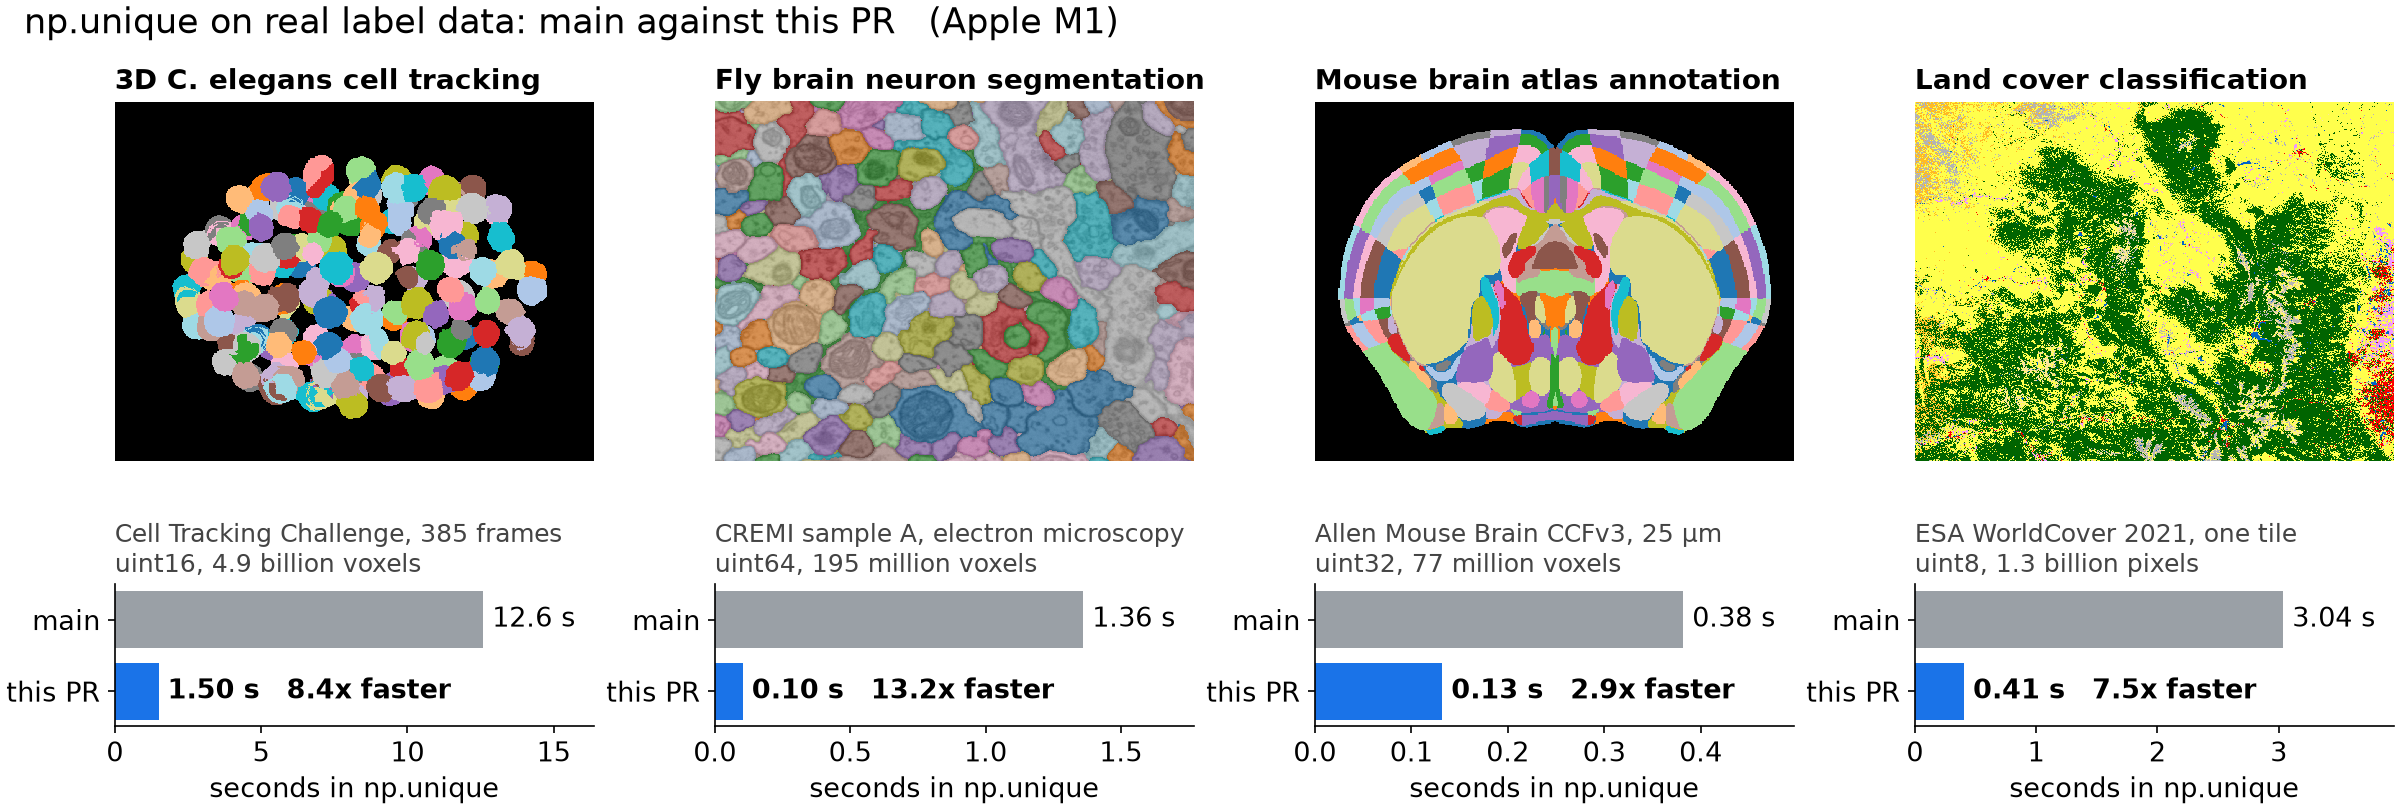
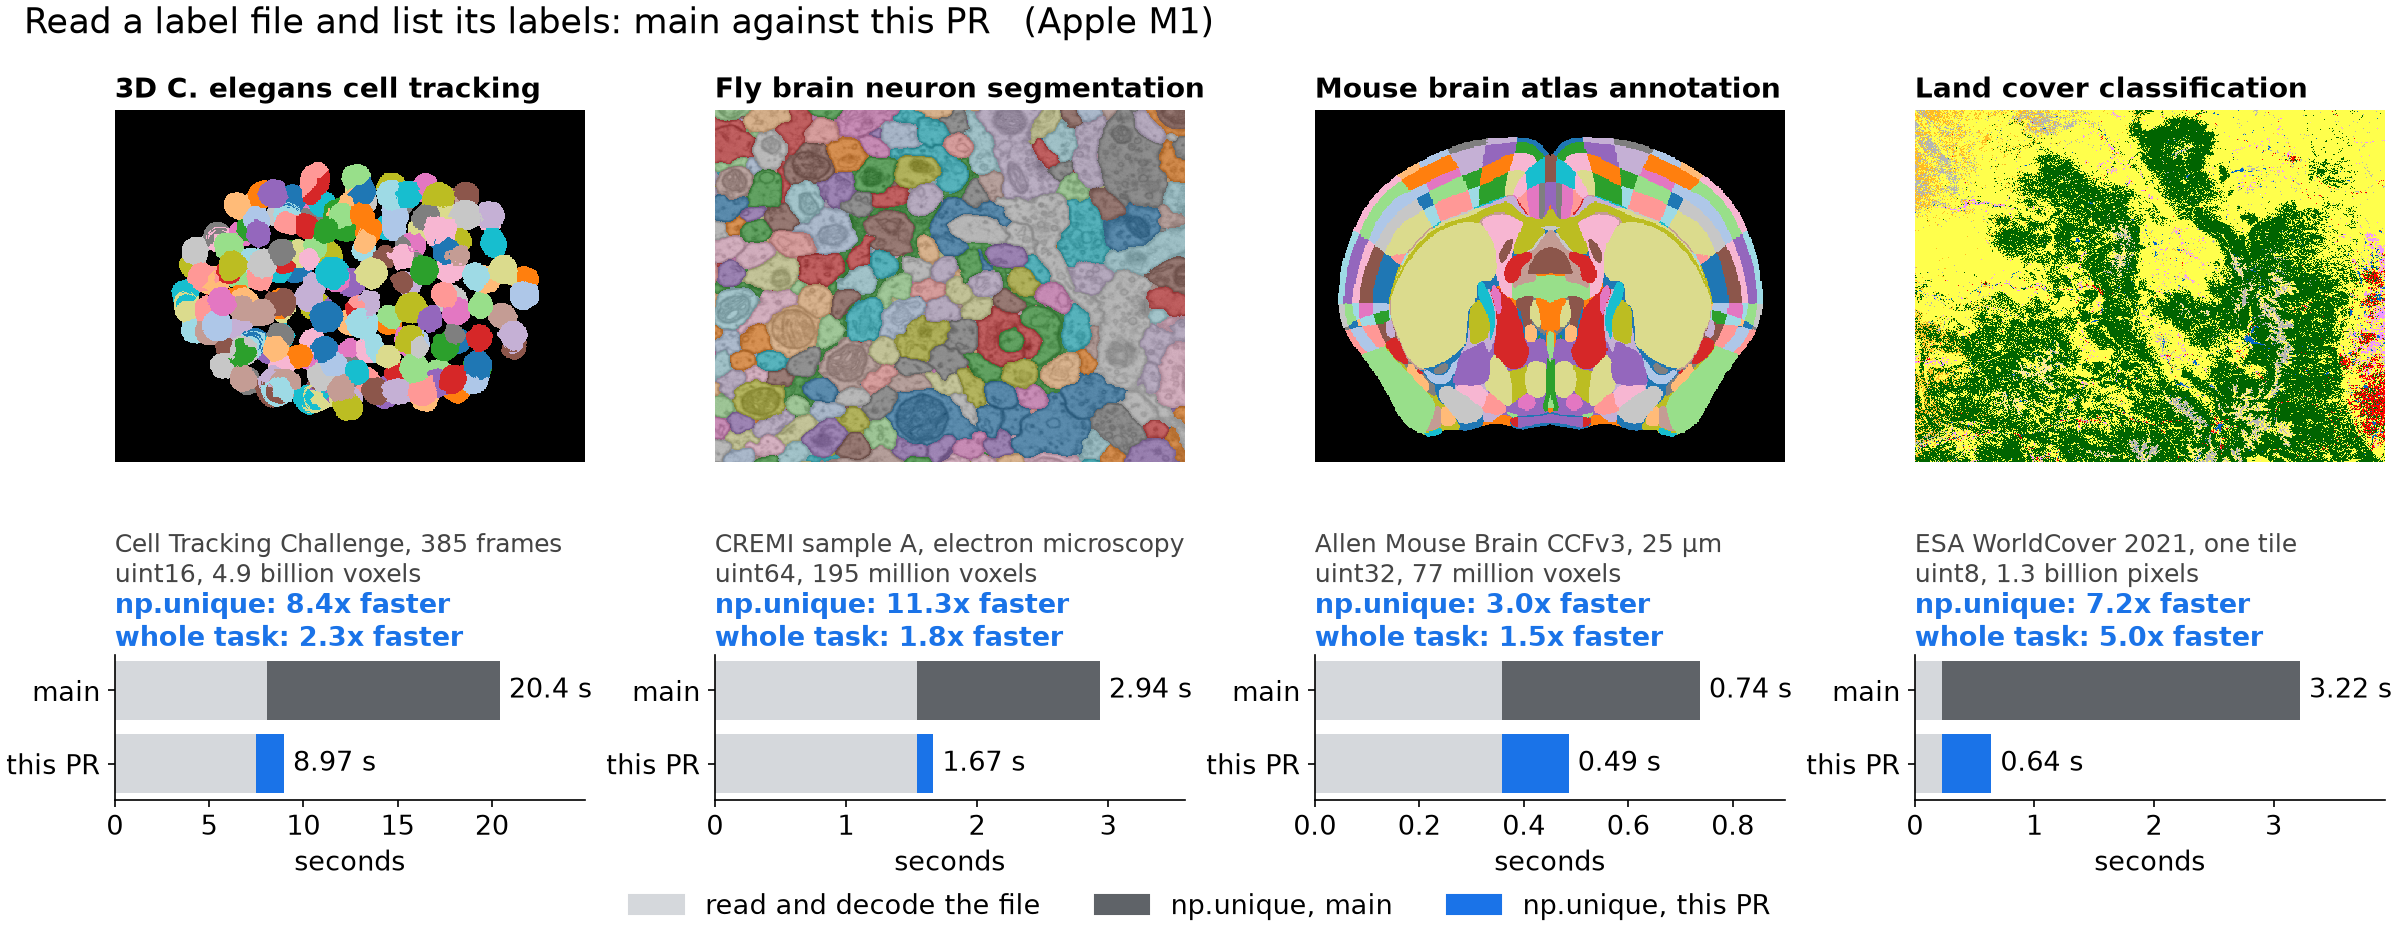
Time the whole task in the summary plot

diff --git a/summary_plot.py b/summary_plot.py
@@ -1,4 +1,4 @@
-"""Time np.unique on four real label datasets in both builds and draw the summary figure.
+"""Time reading four real label datasets and np.unique on them in both builds, and draw the summary figure.
 
     pixi run plot              # times both builds (a few minutes), writes summary.png
     pixi run plot --replot     # redraws from the timings of the last run
@@ -13,37 +13,50 @@ import matplotlib.pyplot as plt
 import numpy as np
 import tifffile
 from matplotlib import colormaps
+from matplotlib.patches import Patch
 
 HERE = Path(__file__).parent
 DATA = HERE / "data"
 BUILDS = {"main": HERE / ".pixi/envs/main/bin/python", "this PR": HERE / ".pixi/envs/tables/bin/python"}
-COLORS = {"main": "#9aa0a6", "this PR": "#1a73e8"}
+COLORS = {"main": "#5f6368", "this PR": "#1a73e8"}
+READ_COLOR = "#d5d8dc"
 TIMINGS = HERE / "summary-timings.json"
 
-# Runs in each build. A dataset is one .npy file, or a folder of TIFF frames
-# with one np.unique call per frame; only np.unique is timed.
+# Runs in each build: read a dataset from the file its publisher distributes,
+# then call np.unique, timing the two steps separately.
 WORKER = r"""
-import json, sys, time
+import gzip, json, sys, time
 from pathlib import Path
 import numpy as np
 
-def best(a, repeats):
-    times = []
-    for _ in range(repeats):
-        t0 = time.perf_counter()
-        np.unique(a)
-        times.append(time.perf_counter() - t0)
-    return min(times)
+def read(path):
+    if path.suffix == ".hdf":
+        import h5py
+        with h5py.File(path) as f:
+            return f["volumes/labels/neuron_ids"][...]
+    if path.suffix == ".nrrd":
+        raw = path.read_bytes()
+        return np.frombuffer(gzip.decompress(raw[raw.index(b"\n\n") + 2:]), dtype="<u4")
+    import tifffile
+    return tifffile.imread(path)
 
-seconds = 0.0
-for path in map(Path, sys.argv[1:]):
-    if path.is_dir():
-        import tifffile
-        for frame in sorted(path.glob("*.tif")):
-            seconds += best(tifffile.imread(frame), 1)
-    else:
-        seconds += best(np.load(path), 3)
-print(json.dumps(seconds))
+paths = []
+for path in map(Path, sys.argv[2:]):
+    paths += sorted(path.glob("*.tif")) if path.is_dir() else [path]
+best = None
+for _ in range(int(sys.argv[1])):
+    seconds = {"read": 0.0, "unique": 0.0}
+    for path in paths:
+        t0 = time.perf_counter()
+        a = read(path)
+        t1 = time.perf_counter()
+        np.unique(a)
+        seconds["read"] += t1 - t0
+        seconds["unique"] += time.perf_counter() - t1
+        del a
+    if best is None or sum(seconds.values()) < sum(best.values()):
+        best = seconds
+print(json.dumps(best))
 """
 
 WORKFLOWS = {
@@ -51,21 +64,22 @@ WORKFLOWS = {
         "title": "3D C. elegans cell tracking",
         "data": "Cell Tracking Challenge, 385 frames\nuint16, 4.9 billion voxels",
         "paths": [DATA / "celegans/01", DATA / "celegans/02"],
+        "repeats": 1,
     },
     "neurons": {
         "title": "Fly brain neuron segmentation",
         "data": "CREMI sample A, electron microscopy\nuint64, 195 million voxels",
-        "paths": [DATA / "cremi_neuron_ids.npy"],
+        "paths": [DATA / "cremi_sample_A.hdf"],
     },
     "atlas": {
         "title": "Mouse brain atlas annotation",
         "data": "Allen Mouse Brain CCFv3, 25 µm\nuint32, 77 million voxels",
-        "paths": [DATA / "allen_annotation_25.npy"],
+        "paths": [DATA / "allen_annotation_25.nrrd"],
     },
     "land": {
         "title": "Land cover classification",
         "data": "ESA WorldCover 2021, one tile\nuint8, 1.3 billion pixels",
-        "paths": [DATA / "worldcover_N39W108.npy"],
+        "paths": [DATA / "worldcover_N39W108.tif"],
     },
 }
 
@@ -110,10 +124,11 @@ def measure():
     for key, workflow in WORKFLOWS.items():
         timings[key] = {}
         for build, python in BUILDS.items():
-            out = subprocess.run([python, "-c", WORKER, *map(str, workflow["paths"])],
+            out = subprocess.run([python, "-c", WORKER, str(workflow.get("repeats", 3)), *map(str, workflow["paths"])],
                                  capture_output=True, text=True, check=True)
             timings[key][build] = json.loads(out.stdout)
-            print(f"{key:8s} {build:8s} {timings[key][build]:8.3f} s", flush=True)
+            print(f"{key:8s} {build:8s} read {timings[key][build]['read']:7.3f} s   "
+                  f"np.unique {timings[key][build]['unique']:7.3f} s", flush=True)
     return timings
 
 
@@ -135,7 +150,7 @@ else:
 timings = saved["timings"]
 
 plt.rcParams.update({"font.size": 13, "axes.spines.top": False, "axes.spines.right": False})
-fig, axes = plt.subplots(2, 4, figsize=(16, 5.4), height_ratios=[3.2, 1], layout="constrained")
+fig, axes = plt.subplots(2, 4, figsize=(16, 6.3), height_ratios=[3.2, 1], layout="constrained")
 pictures = images()
 for column, (key, workflow) in enumerate(WORKFLOWS.items()):
     top, bottom = axes[0, column], axes[1, column]
@@ -145,17 +160,24 @@ for column, (key, workflow) in enumerate(WORKFLOWS.items()):
 
     seconds = timings[key]
     names = list(BUILDS)
-    bottom.barh(names, [seconds[n] for n in names], color=[COLORS[n] for n in names])
+    total = {n: seconds[n]["read"] + seconds[n]["unique"] for n in names}
+    bottom.barh(names, [seconds[n]["read"] for n in names], color=READ_COLOR)
+    bottom.barh(names, [seconds[n]["unique"] for n in names], left=[seconds[n]["read"] for n in names],
+                color=[COLORS[n] for n in names])
     bottom.invert_yaxis()
-    bottom.set_xlim(0, seconds["main"] * 1.3)
-    bottom.set_xlabel("seconds in np.unique")
-    bottom.set_title(workflow["data"], loc="left", fontsize=12, color="#444444")
+    bottom.set_xlim(0, total["main"] * 1.22)
+    faster = seconds["main"]["unique"] / seconds["this PR"]["unique"]
+    bottom.set_xlabel("seconds")
+    bottom.set_title(workflow["data"] + "\n\n", loc="left", fontsize=12, color="#444444")
+    bottom.text(0, 1.06, f"np.unique: {faster:.1f}x faster\nwhole task: {total['main'] / total['this PR']:.1f}x faster",
+                transform=bottom.transAxes, fontsize=13, fontweight="bold", color=COLORS["this PR"])
     for i, n in enumerate(names):
-        text = f" {seconds[n]:.2f} s" if seconds[n] < 10 else f" {seconds[n]:.1f} s"
-        if n != "main":
-            text += f"   {seconds['main'] / seconds[n]:.1f}x faster"
-        bottom.text(seconds[n], i, text, va="center", fontweight="bold" if n != "main" else "normal")
-fig.suptitle(f"np.unique on real label data: main against this PR   ({saved['cpu']})",
+        bottom.text(total[n], i, f" {total[n]:.2f} s" if total[n] < 10 else f" {total[n]:.1f} s", va="center")
+fig.suptitle(f"Read a label file and list its labels: main against this PR   ({saved['cpu']})",
              x=0.01, ha="left", fontsize=17)
+fig.legend(handles=[Patch(color=READ_COLOR, label="read and decode the file"),
+                    Patch(color=COLORS["main"], label="np.unique, main"),
+                    Patch(color=COLORS["this PR"], label="np.unique, this PR")],
+           loc="outside lower center", ncols=3, frameon=False)
 fig.savefig(HERE / "summary.png", dpi=150, facecolor="white")
 print("wrote", HERE / "summary.png")
